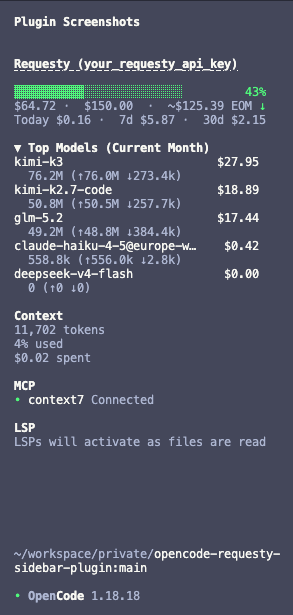
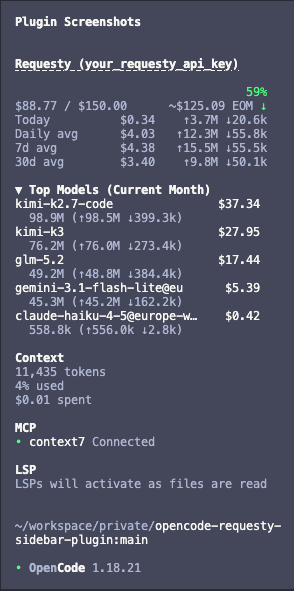
docs: add new screenshots for version 1.1.0

diff --git a/README.md b/README.md
@@ -36,19 +36,9 @@ The sidebar gives a quick, at-a-glance view of your current month's Requesty usa
 
 You can disable the sidebar entirely with `"sidebar": { "enabled": false }`.
 
-### Detail dialog
-
-![Detail dialog](docs/images/detail-dialog.png)
-
-Open the dialog with `/requesty` or by picking *Requesty: show usage* from the command palette for the full breakdown:
-
-- KPI row: spent, limit, remaining, End of Month projection with a colored pace arrow, and last month's spend with a colored trend chevron
-- *Budget Overview* card: wide progress bar, budget-health badge, days-to-exhaustion estimate based on your 7-day average, and today/daily avg/7d/30d averages
-- *Model Breakdown (Current Month)* card: per-model table with spend, share of total spend, tokens, request count, and output/input ratio
-
 ### Prompt indicator
 
-![Prompt indicator](docs/images/prompt-indicator.png)
+![Prompt indicator](docs/images/session-prompt.png)
 
 A compact readout on the right side of the session prompt shows:
 
@@ -57,6 +47,17 @@ A compact readout on the right side of the session prompt shows:
 - Optional month-end projection (`~$X EOM ↑`) when `prompt.monthlyProjection` is enabled
 
 Disable the readout with `"prompt": { "budgetIndicator": false }`.
+
+
+### Detail dialog
+
+![Detail dialog](docs/images/dialog.png)
+
+Open the dialog with `/requesty` from the command palette for the full breakdown:
+
+- KPI row: spent, limit, remaining, End of Month projection with a colored pace arrow, and last month's spend with a colored trend chevron
+- *Budget Overview* card: wide progress bar, budget-health badge, days-to-exhaustion estimate based on your 7-day average, and today/daily avg/7d/30d averages
+- *Model Breakdown (Current Month)* card: per-model table with spend, share of total spend, tokens, request count, and output/input ratio
 
 Data comes from the [Requesty Management API](https://docs.requesty.ai/api-reference/management-apis) (`apikey/self` + `apikey/self/usage` grouped by `model_used`, current calendar month).
 
